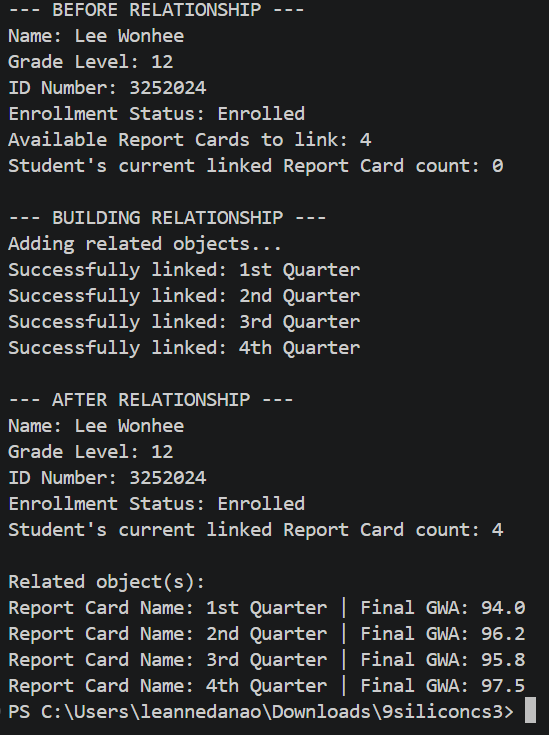
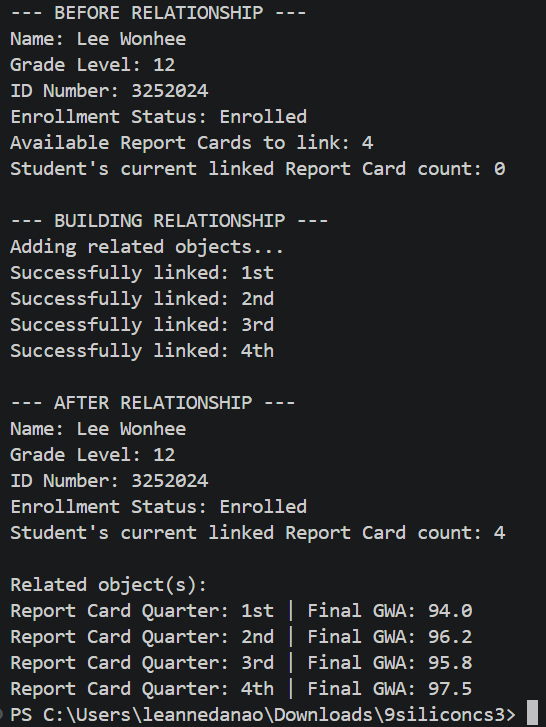
questions nalang

diff --git a/q1/classRelationships.md b/q1/classRelationships.md
@@ -16,7 +16,6 @@ Multiplicity: Student 1 ───────── 0..* ReportCard<br>
 Explanation: One Student can have many ReportCards accumulated throughout their academic life to track their grades (e.g., one for each quarter across multiple years). Conversely, each individual ReportCard is unique and can only belong to one specific student to prevent grading mix-ups.
 ## UML Class Relationship Diagram
 ![Class Relationship Diagram](images/classRelationshipDiagram.png)
-## Python Implementation
 [View Python Source](classRelationships.py)
 ## Test Run
 ![Relationship Test Run](images/relationshipTestRun.png)

diff --git a/q1/classAttributesMethods.md b/q1/classAttributesMethods.md
@@ -16,7 +16,7 @@ No major changes were needed from my original design.
 ## Python Implementation
 ### [View Python Source](classImplementation.py)
 ## Test Run
-![Test Run](images/TestRun.png)
+![Test Run](images/classTestRun.png)
 ## Object Diagram
 ![Object Diagram](images/objectDiagram.png)
 ## Analysis
